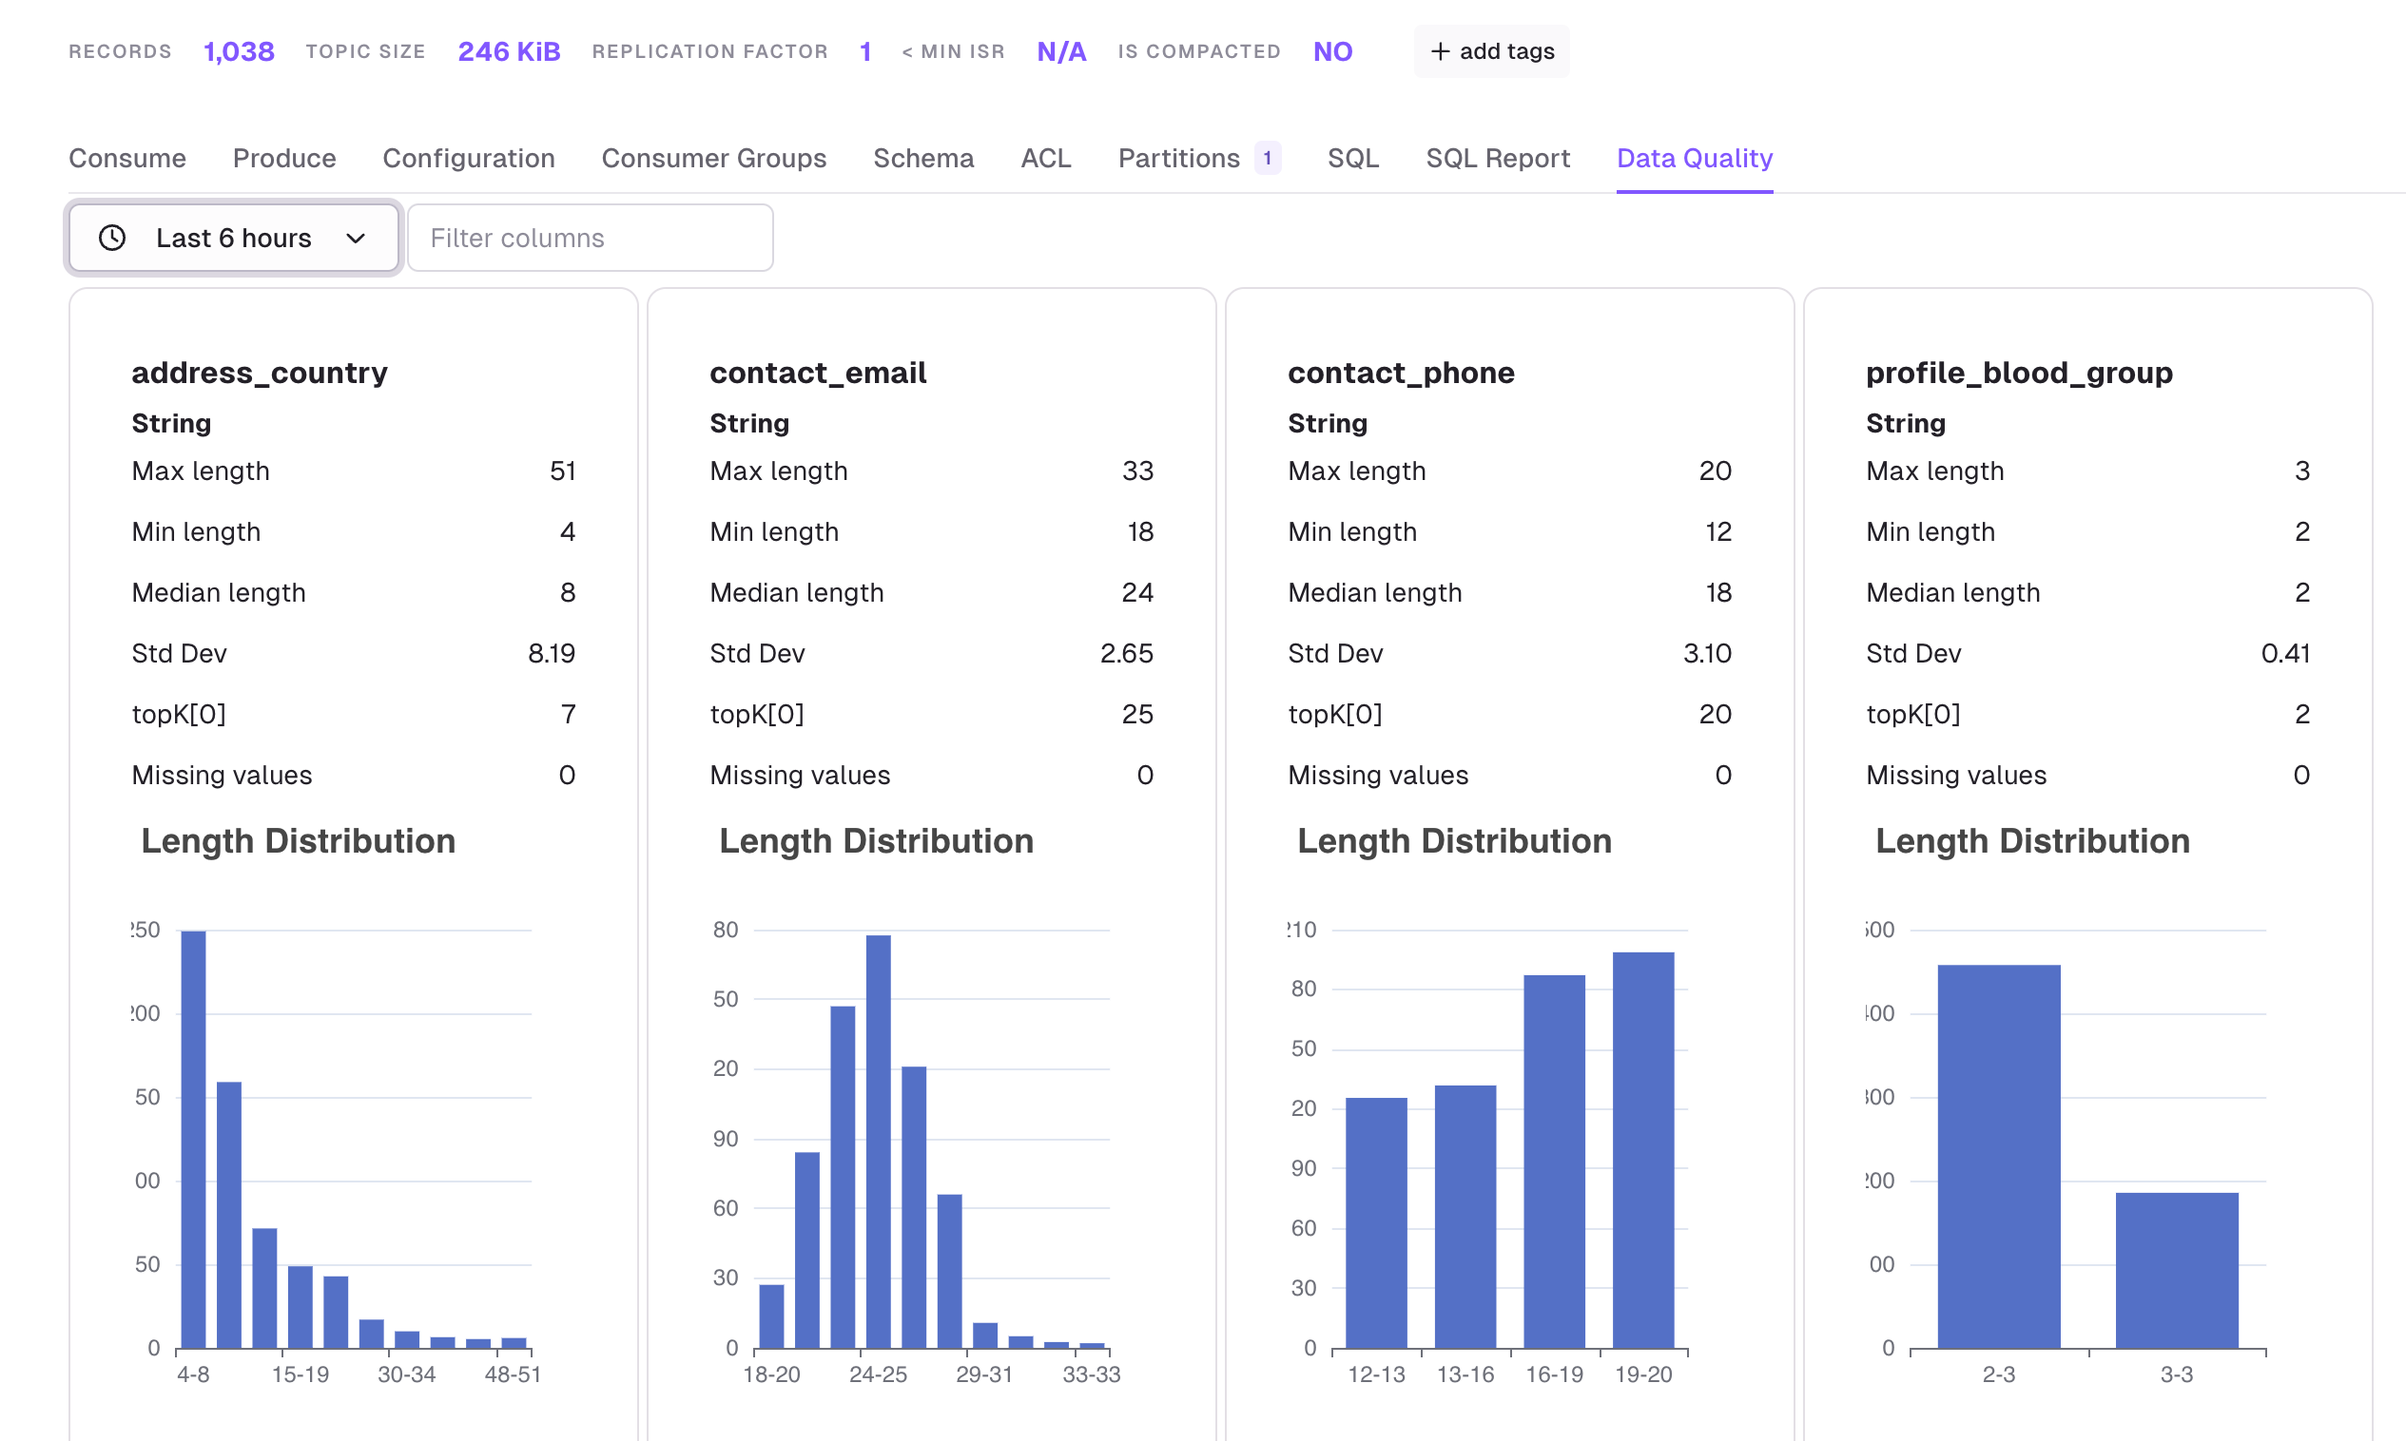
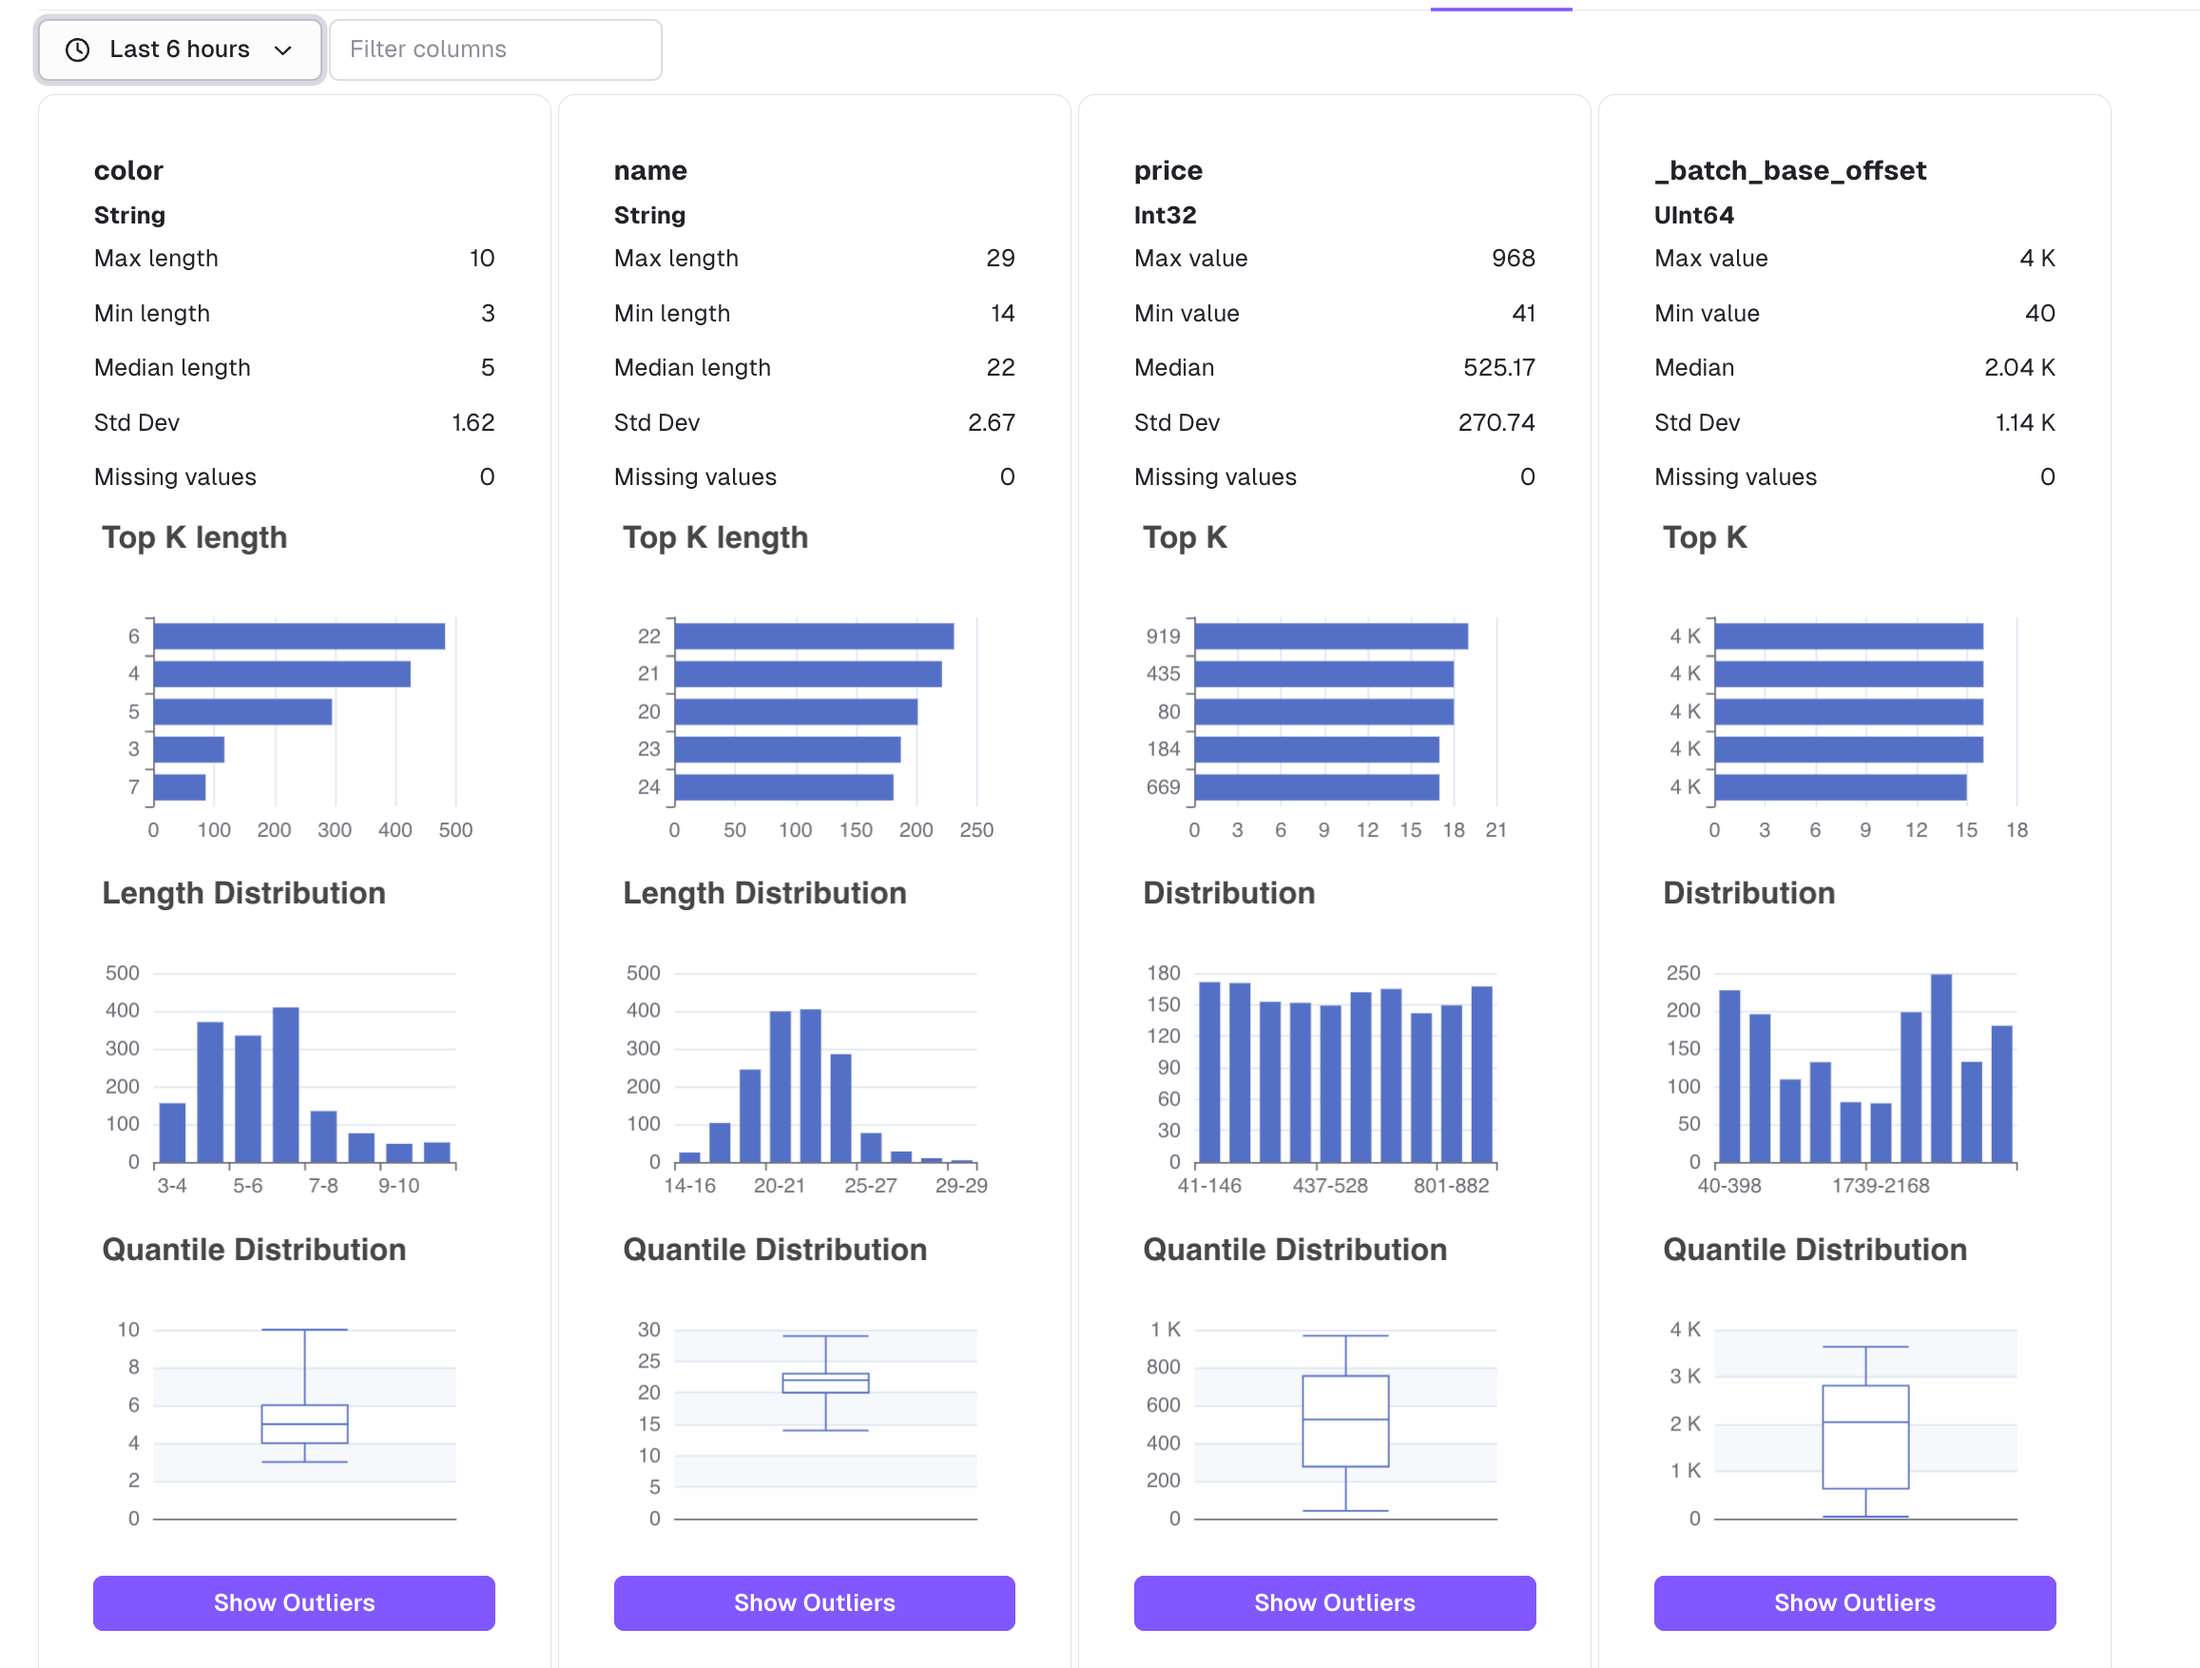
BoxPlot

diff --git a/docs/platform/navigation/sql/index.md b/docs/platform/navigation/sql/index.md
@@ -34,13 +34,19 @@ Query any of your indexed topics using SQL.
 Navigate in your measures and dimensions
 
 
-![Dashboard](images/dashboard.png)
+[![Dashboard](images/dashboard.png)](#dashboarding-1)
 
 ### Data Quality
 
 Get a view on your data quality at a glance.
 
 ![Data Quality](images/data-quality.png)
+
+### Outliers detection
+
+Find directly the outliers
+
+![Outliers detection](images/data-quality-outliers.png)
 
 
 ### Recent Queries
